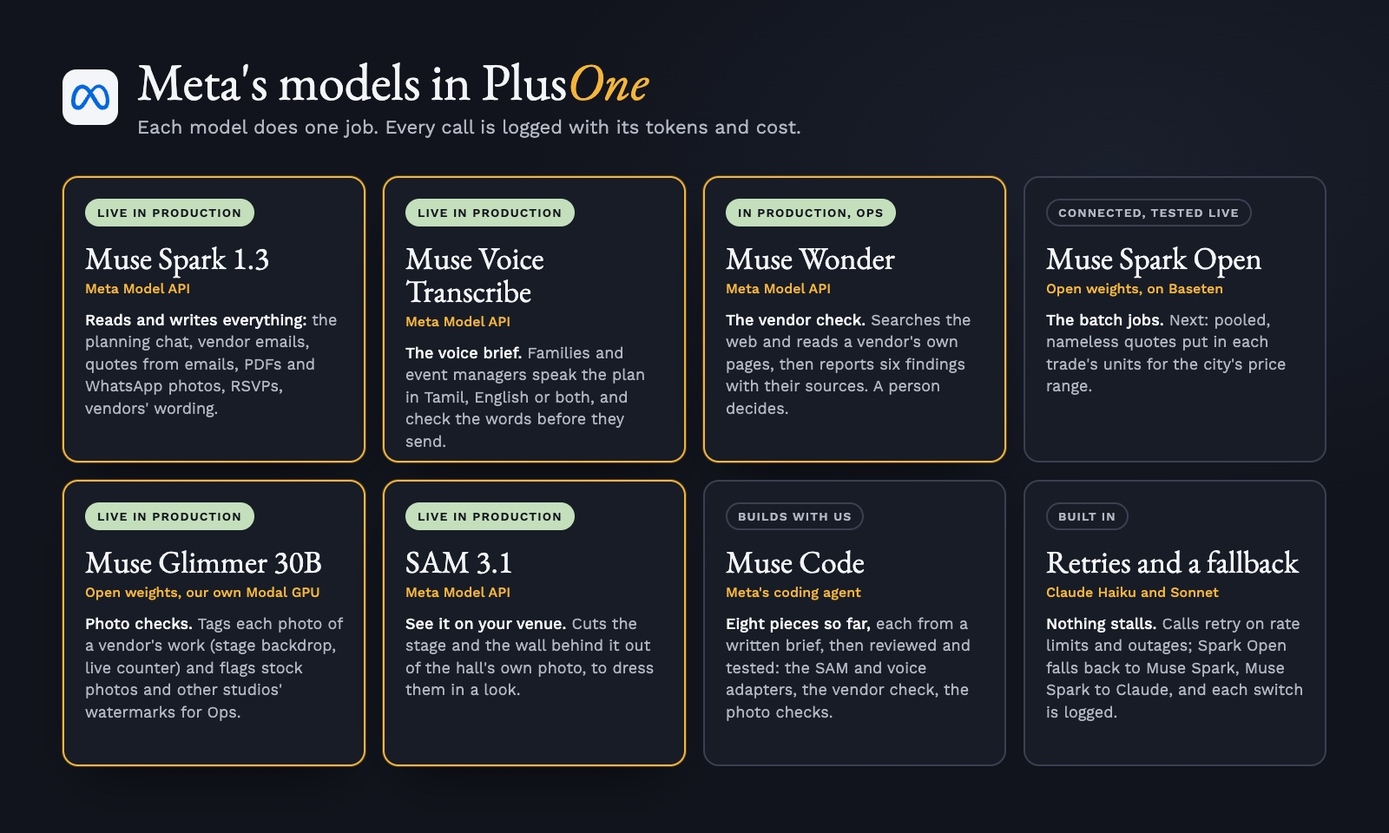
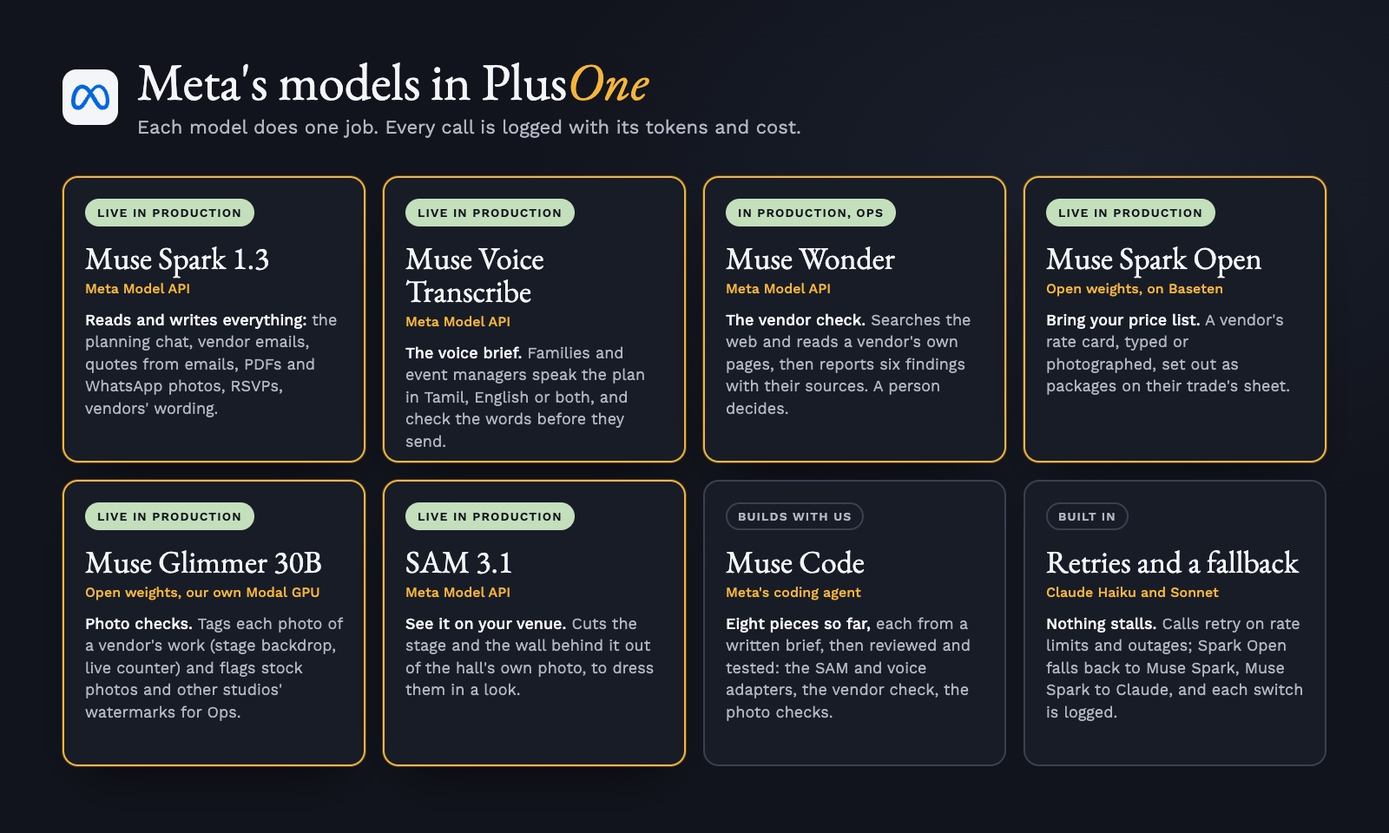
README, devlog and the models card: Muse Spark Open reads vendors' price lists; WhatsApp and Call; 657 tests

Changed region(s): [[0.75, 0.375, 0.9375, 0.4688], [0.75, 0.1875, 0.9375, 0.2812], [0.7188, 0.5312, 0.9688, 0.5625]]

diff --git a/assets/src/meta-models.html b/assets/src/meta-models.html
@@ -54,11 +54,11 @@
       <div class="host">Meta Model API</div>
       <div class="what"><b>The vendor check.</b> Searches the web and reads a vendor's own pages, then reports six findings with their sources. A person decides.</div>
     </div>
-    <div class="m">
-      <span class="tag">Connected, tested live</span>
+    <div class="m live">
+      <span class="tag">Live in production</span>
       <div class="name">Muse Spark Open</div>
       <div class="host">Open weights, on Baseten</div>
-      <div class="what"><b>The batch jobs.</b> Next: pooled, nameless quotes put in each trade's units for the city's price range.</div>
+      <div class="what"><b>Bring your price list.</b> A vendor's rate card, typed or photographed, set out as packages on their trade's sheet.</div>
     </div>
     <div class="m live">
       <span class="tag">Live in production</span>

diff --git a/README.md b/README.md
@@ -15,7 +15,7 @@
 ![Event](https://img.shields.io/badge/event-Meta_Global_AI_Developer_Hackathon-f4b53a?style=flat-square&labelColor=11141c)
 ![Track](https://img.shields.io/badge/track-Startup-f4b53a?style=flat-square&labelColor=11141c)
 ![Status](https://img.shields.io/badge/status-working_end_to_end-c4dfbc?style=flat-square&labelColor=11141c)
-![Tests](https://img.shields.io/badge/tests-643_passing-c4dfbc?style=flat-square&labelColor=11141c)
+![Tests](https://img.shields.io/badge/tests-657_passing-c4dfbc?style=flat-square&labelColor=11141c)
 [![License](https://img.shields.io/badge/license-FSL--1.1--ALv2-b3b7c3?style=flat-square&labelColor=11141c)](LICENSE.md)
 
 <table align="center">
@@ -82,7 +82,7 @@ PlusOne began as a wedding planner and placed second at Convex's All Gas hackath
 
 | The theme asks | PlusOne's answer |
 |---|---|
-| **Bring Meta's models into your domain** | Event planning, on Meta's models end to end. Muse Spark reads replies, quotes and PDFs that mix Tamil and English into the same lines, and Muse Voice Transcribe hears a plan spoken in Tamil, English or both, both live today. Muse Wonder checks a vendor's evidence in Ops, and Muse Spark Open, open weights on Baseten, is connected for the batch jobs. Muse Glimmer, open weights on our own Modal GPU, checks and tags photos of vendors' work, live in production. SAM 3.1 cuts the stage out of the customer's own hall photo to dress it in a look, live |
+| **Bring Meta's models into your domain** | Event planning, on Meta's models end to end. Muse Spark reads replies, quotes and PDFs that mix Tamil and English into the same lines, and Muse Voice Transcribe hears a plan spoken in Tamil, English or both, both live today. Muse Wonder checks a vendor's evidence in Ops, and Muse Spark Open, open weights on Baseten, turns a vendor's own price list, typed or photographed, into packages on the standard sheet. Muse Glimmer, open weights on our own Modal GPU, checks and tags photos of vendors' work, live in production. SAM 3.1 cuts the stage out of the customer's own hall photo to dress it in a look, live |
 | **A problem you know firsthand** | The founders know it from planning events in their own families: vendors spread across calls, chats and spreadsheets, quotes that can't be compared, charges that turn up later. PlusOne began as a planner for exactly that |
 | **Free up time and mental space** | PlusOne does the legwork: it searches, writes from the event's own inbox, chases vendors up to three times, reads every reply and PDF into one unit and says what each quote leaves out. The host only decides |
 | **Make something possible that wasn't before** | A family planning a birthday gets what only a wedding with a planner got before: offers in the same lines, missing charges flagged and the market range. An event manager gets the same for every client's event, without chasing each vendor by phone. A vendor with no website gets found and answers briefs. A plan can be spoken in Tamil, and the decor seen on the real hall before anyone pays |
@@ -112,7 +112,7 @@ Before the hackathon, PlusOne already planned an event from a conversation, foun
 | Criterion (weight) | What PlusOne shows | Where to look |
 |---|---|---|
 | **Impact (30%)**: real-world potential, who benefits, could people use it, fit to the problem statement | **The pain:** planning is spread across calls, chats, email and spreadsheets, and no two quotes are written alike, so charges turn up late. **Who benefits:** families, teams and event managers planning events of any size, and vendors with no website or listing, who can't be found. **What PlusOne does:** one all-in-one app for the whole plan, and every quote and offer on the same lines, with missing charges flagged and the market range. **Real-world potential:** every event needs vendors and quotes, at every budget; the aim is to standardise how they are planned and bought, with four revenue streams. **Could people use it:** it is live at plusoneevents.site, free until launch, with a guest demo that needs no sign-up. **Fit:** Build for Your World, answered row by row above | [The business](#the-business), [How it works](#how-it-works) |
-| **Use of Meta AI tooling (25%)**: creative, beyond a basic integration, surprising capabilities | Each model does the job it is best at, chained into one flow. Today, Muse Spark reads every reply, PDF, quote and WhatsApp photo of a price list, in Tamil and English, into the same lines, and fixed rules then flag what each leaves out; Muse Voice Transcribe hears a spoken brief and Muse Spark turns it into the plan. Muse Wonder gathers evidence about a vendor for Ops, with its sources. Muse Spark Open, open weights on Baseten, is connected and tested live, and takes Muse Spark's place for batch jobs. Muse Glimmer, open weights on our own Modal GPU, checks and tags photos of vendors' work. Muse Spark boxes the stage in the hall's own photo and SAM 3.1 cuts it out to dress it in a look. Muse Code builds pieces of the app. Every call shows in Under the hood with its model, time and cost. Each piece's status is in the table above | [Meta's models in PlusOne](#metas-models-in-plusone) |
+| **Use of Meta AI tooling (25%)**: creative, beyond a basic integration, surprising capabilities | Each model does the job it is best at, chained into one flow. Today, Muse Spark reads every reply, PDF, quote and WhatsApp photo of a price list, in Tamil and English, into the same lines, and fixed rules then flag what each leaves out; Muse Voice Transcribe hears a spoken brief and Muse Spark turns it into the plan. Muse Wonder gathers evidence about a vendor for Ops, with its sources. Muse Spark Open, open weights on Baseten, reads a vendor's price list, typed or photographed, into packages on their trade's sheet. Muse Glimmer, open weights on our own Modal GPU, checks and tags photos of vendors' work. Muse Spark boxes the stage in the hall's own photo and SAM 3.1 cuts it out to dress it in a look. Muse Code builds pieces of the app. Every call shows in Under the hood with its model, time and cost. Each piece's status is in the table above | [Meta's models in PlusOne](#metas-models-in-plusone) |
 | **Technical depth and execution (20%)**: sound, refined engineering, real craft | The model reads; fixed, tested rules decide what to ask next, when a plan is ready, when a quote may move the budget and what a quote leaves out. One wrapper sends structured output checked against Zod schemas, retries that honour `Retry-After`, falls back with a log and writes a cost row per call. Durable workflows, scheduling, webhooks and rate limits run on Convex, with 588 tests | [The tech, part by part](#the-tech-part-by-part), [Real runs](#real-runs) |
 | **Demo (25%)**: working, impressive, holds up live, a video worth watching | A live guest demo with no sign-up and three sample events. It holds up live with retries, a fallback, rate limits and made-up vendors, so nothing is really sent. A three-minute video of the new work | [The demo](https://app.plusoneevents.site/demo) |
 
@@ -133,7 +133,7 @@ Every fee is disclosed. Fair pricing here means informed and comparable: PlusOne
 
 ## Meta's models in PlusOne
 
-<img src="assets/meta-models.jpg" width="100%" alt="Meta's models in PlusOne: Muse Spark 1.3 and Muse Voice Transcribe live in production; Muse Wonder in production in Ops; Muse Spark Open connected on Baseten and tested live; Muse Glimmer 30B checking vendors' photos on our own Modal GPU, live in production; SAM 3.1 dressing the stage in the hall's own photo, live in production; Muse Code building pieces of the app; retries and a fallback built in">
+<img src="assets/meta-models.jpg" width="100%" alt="Meta's models in PlusOne: Muse Spark 1.3 and Muse Voice Transcribe live in production; Muse Wonder in production in Ops; Muse Spark Open on Baseten reading vendors' price lists, live; Muse Glimmer 30B checking vendors' photos on our own Modal GPU, live in production; SAM 3.1 dressing the stage in the hall's own photo, live in production; Muse Code building pieces of the app; retries and a fallback built in">
 
 | Model | Where it works in PlusOne | Status |
 |---|---|---|
@@ -141,7 +141,7 @@ Every fee is disclosed. Fair pricing here means informed and comparable: PlusOne
 | **Muse Voice Transcribe** | The voice brief: a family or an event manager speaks the plan in Tamil, English or both, in the planning chat or the Today box; next, a vendor's phone call, with who said what told apart, read into the standard sheet | Live in production since 28 Oct 2026 |
 | **SAM 3.1** | Cuts the stage and the wall behind it out of the hall's own photo, from boxes Muse Spark finds or a tap, so the page can dress them in a look; masks cached, so a photo and a tap are paid for once | Live in production, 29 Oct (`convex/lib/sam.ts`, `convex/venueView.ts`: two parts in one call; each mask comes back cropped to its box and resized, so its outline is placed back in the box) |
 | **Muse Wonder** | The verification agent in PlusOne Ops: checks a vendor's profile against their own site and public pages, with links; a person decides | Built into Ops, 28 Oct (`convex/lib/wonder.ts`, `convex/marketplace/checks.ts`): web search and page reads, six findings, a source kept only if the run saw it; in production since 28 Oct; its first live run is next |
-| **Muse Spark Open** (open weights, on Baseten) | Batch jobs over quotes and listings: first, turning pooled quotes into the standard sheet's units for the city's price range; then seeding the vendor directory from public listings | Connected and tested live, 29 Oct (`convex/lib/sparkOpen.ts`): a photographer's shorthand quote read into the right numbers in 2.8 s; a call Baseten can't answer goes to Muse Spark. Its first feature is next |
+| **Muse Spark Open** (open weights, on Baseten) | **Bring your price list** on Partner: a vendor pastes or photographs the price list they already send customers, and Spark Open drafts each package on their trade's standard sheet (how it's priced, the price, what's included, GST) for them to check and save | Live in production, 29 Oct (`convex/marketplace/priceList.ts`, `convex/lib/priceList.ts`): a photo of a printed rate card read into three packages, prices, dish counts, sweets, serving staff and "GST extra" all right, in 8.4 s; fixed rules keep only the sheet's ways of charging and, for typed text, only prices the list has |
 | **Muse Glimmer 30B** (open weights, on our own Modal endpoint) | Checks each photo a Partner vendor adds of their work: real event work or stock, another business's name or watermark, faces, anything unsafe, what it shows, and up to five tags from a fixed list for the trade (stage backdrop, entrance arch, banana-leaf service, live counter); flags go to Ops, where a person decides | Live in production, 29 Oct (`convex/lib/glimmer.ts`, `convex/marketplace/photos.ts`): one H200 that scales to zero; on the live vendors' demo a caterer's photo was checked in about 6 s warm and tagged plated service and serving staff, after a cold start of about 3.6 minutes; a check it can't finish goes to Muse Spark |
 | **Muse Code** (Meta's coding agent) | Builds bounded pieces of PlusOne from a written brief, which are then reviewed and tested before they are committed; eight sessions so far: the SAM 3.1 adapter, the voice brief (its audio encoder, the Voice Transcribe adapter and the brief in the app), the Muse Wonder vendor check and its place in Ops, the tidy for vendors' wording, and the Glimmer photo checks. Every session is logged in [`devlog.md`](devlog.md#muse-code) | In use since 27 Oct 2026 |
 
@@ -240,7 +240,7 @@ PlusOne Ops, at `/ops`, is the PlusOne team's side. A queue holds vendors and li
 | Muse Spark reading the demo's quotes | The three caterers' replies read on `muse-spark-1.3` in production, each right first time: Annam ₹66,150 in three lines (150 plates at ₹380, ₹6,000 service, ₹3,150 GST), priced for 150; Saapadu ₹62,000 all in for 120 with the ₹480 extra plate kept apart; Kaveri ₹54,000 plus ₹2,500 for vessels and staff, GST extra. 7.1–14.4 s each, 4,329 tokens in and 6,570 out, $0.033 in all, no fallback | 28 Oct 2026 | `npx convex run claude:readDemoQuotes`; the rows are Under the hood's recorded run |
 | Muse Voice Transcribe in production | A note spoken into the live app's Today box came back as text in the box, first try; the recording was deleted after reading | 28 Oct 2026 | By hand on app.plusoneevents.site, in the founder's own voice |
 | Muse Spark's reasoning | At `reasoning_effort: low` a one-line reply used 194 reasoning tokens; capped at 400 output tokens, reasoning took 398 and the answer came back empty. Every call site allows 16,000 | 27 Oct 2026 | Two direct Chat Completions calls |
-| Tests | 643 passed in 61 files, including the quote comparison, the standard sheet and its missing-charge rules (pinned on the guest demo's quotes), the marketplace's listings, briefs, offers and price ranges, the Meta provider switch and its fallback, Muse Spark Open on Baseten and its move to Muse Spark, the photo checks on Muse Glimmer (its retries through a cold start, the tag list, the limits and the Ops decisions), the venue view (boxes to SAM's objects, the mask cache, taps, limits and where the backdrop is drawn), the cost record, the voice brief's limits and clean-up, the vendor check's tool loop, source rules, limits and cost on failure, the planning conversation's rules, the board's geometry, the co-pilot's route and a contrast check of every text colour in the light and dark themes | 29 Oct 2026 | `npm test` |
+| Tests | 657 passed in 64 files, including the quote comparison, the standard sheet and its missing-charge rules (pinned on the guest demo's quotes), the marketplace's listings, briefs, offers and price ranges, the Meta provider switch and its fallback, Muse Spark Open on Baseten and its move to Muse Spark, the photo checks on Muse Glimmer (its retries through a cold start, the tag list, the limits and the Ops decisions), the venue view (boxes to SAM's objects, the mask cache, taps, limits and where the backdrop is drawn), the price list (only the sheet's units and the list's own prices kept, a photo deleted once read), the photos customers see, WhatsApp and call links, the cost record, the voice brief's limits and clean-up, the vendor check's tool loop, source rules, limits and cost on failure, the planning conversation's rules, the board's geometry, the co-pilot's route and a contrast check of every text colour in the light and dark themes | 29 Oct 2026 | `npm test` |
 | Typecheck, app and backend | Clean | 28 Oct 2026 | `npm run typecheck` |
 | The three sample events | Each opened from `/demo` for a new visitor (the birthday, `?sample=housewarming`, `?sample=office`); eleven screens captured with 0 page errors; at phone width (390 px) the page is exactly as wide as the screen, with no sideways scroll | 25 Oct 2026 | Headless Chrome (playwright-core) against the dev server and the dev backend; these are the screenshots in this README |
 | Vendor search terms, old against new | Vendors' own websites among results kept: 9 of 27 with the new short terms against 5 of 26 with the old single sentence, for about half the credits | 20 Oct 2026 | A one-off before/after run of three briefs against Firecrawl |
@@ -262,6 +262,7 @@ PlusOne Ops, at `/ops`, is the PlusOne team's side. A queue holds vendors and li
 | Open weights on Baseten | Muse Spark Open (`meta-models/muse-spark-open-1026`) through Baseten's Chat Completions, paid from Baseten's credit | `convex/lib/sparkOpen.ts`; the same request and reply code as Meta's API (`chatBody` and `chatComplete` in `convex/lib/meta.ts`), so structured output and retries match; a call asks for it with `provider: "spark_open"` and moves to Muse Spark when Baseten can't answer; `convex/openWeights.ts` is a hand-run live check |
 | Photos of a vendor's work | Muse Glimmer 30B on our own Modal Dedicated Endpoint (one H200, SGLang, OpenAI-compatible), Muse Spark as fallback | Partner shrinks a photo in the browser and uploads it; `convex/marketplace/photos.ts` checks it in the background; `convex/lib/glimmer.ts` sends it with a proxy token, retries while the GPU starts and ends within seven minutes; `convex/lib/photoTags.ts` holds the tags per trade and the plain-words flags; Ops approves or removes |
 | See it on your venue | Muse Spark (boxes the stage and the wall behind it), SAM 3.1 (cuts both out in one call), canvas drawing | `convex/venueView.ts` runs Muse Spark then SAM and caches the masks by image and prompt; `convex/lib/venue.ts` turns boxes and taps into SAM's objects; `src/lib/venueLooks.ts` draws the drape, garlands and stage skirt only inside the masks (Muse Image isn't available in India, so it is our own drawing, labelled as a sketch) |
+| Bring your price list | Muse Spark Open on Baseten (images and text in), with fixed rules | `convex/marketplace/priceList.ts` sends the list, or its photo, with the trade's ways of charging and quantities by key; `convex/lib/priceList.ts` keeps only those keys and, for typed text, only prices found in it (`numbersIn`, a lakh figure read as lakh); the photo is deleted once read; drafts fill the usual form and nothing saves until the vendor does |
 | Cost record | Own code | `convex/modelCalls.ts` writes one row per model call; prices per million tokens for Muse Spark, Muse Wonder, Muse Spark Open on Baseten and the Claude fallback, SAM 3.1 per image and Glimmer's GPU per second, in `convex/lib/modelCost.ts`. The row is written before the answer is checked, since an answer that fails validation was still paid for |
 | Vendor search | Firecrawl | Short search terms in `convex/lib/searchTerms.ts`; research, ranking and contact and pricing pages in `convex/research.ts` and `convex/firecrawl.ts`, with what may be read decided in `convex/lib/scrapePolicy.ts` and a cache in `convex/webCache.ts` |
 | The event's inbox | AgentMail | One inbox per event, named after the hosts' first names on the deployment's domain, in `convex/agentmail.ts` and `convex/lib/inboxName.ts`; sending, replies and follow-ups in `convex/outreach.ts`, `convex/inbound.ts` and `convex/followups.ts`; the do-not-contact list in `convex/doNotContact.ts`. Each deployment keeps its inboxes in its own AgentMail pod, with a webhook that hears only that pod |

diff --git a/devlog.md b/devlog.md
@@ -13,14 +13,14 @@
 - **Hosting:** Cloudflare Pages for the app; Convex (Ireland) for the backend
 - **Auth:** Clerk; Convex Auth guest sessions for the sample events
 - **External services:** AgentMail (event inboxes), Firecrawl (vendor search), Resend (app emails), PostHog (usage), Meta Model API (Muse Spark, Muse Voice Transcribe, Muse Wonder), Baseten (Muse Spark Open), Modal (our own Muse Glimmer endpoint)
-- **AI models (product):** muse-spark-1.3 (Meta Model API, Chat Completions with JSON Schema output) for every reading and writing step, live in production since 27 Oct; claude-haiku-5-5 and claude-sonnet-5-5 as the fallback when Meta can't answer; muse-voice-transcribe-1.0 for speaking the plan instead of typing it, in the app since 28 Oct (no fallback); muse-wonder-1.0 for the vendor check in Ops, in production since 28 Oct; the open-weights meta-models/muse-spark-open-1026 on Baseten, connected and tested live 29 Oct, falling back to Muse Spark. the open-weights Muse Glimmer 30B on our own Modal endpoint (one H200) for checking and tagging vendors' photos, live in production 29 Oct, falling back to Muse Spark. SAM 3.1 (`sam-3.1`) to cut the stage out of a hall photo for the venue view, live in production 29 Oct.
+- **AI models (product):** muse-spark-1.3 (Meta Model API, Chat Completions with JSON Schema output) for every reading and writing step, live in production since 27 Oct; claude-haiku-5-5 and claude-sonnet-5-5 as the fallback when Meta can't answer; muse-voice-transcribe-1.0 for speaking the plan instead of typing it, in the app since 28 Oct (no fallback); muse-wonder-1.0 for the vendor check in Ops, in production since 28 Oct; the open-weights meta-models/muse-spark-open-1026 on Baseten, reading vendors' price lists into packages on Partner since 29 Oct, falling back to Muse Spark. the open-weights Muse Glimmer 30B on our own Modal endpoint (one H200) for checking and tagging vendors' photos, live in production 29 Oct, falling back to Muse Spark. SAM 3.1 (`sam-3.1`) to cut the stage out of a hall photo for the venue view, live in production 29 Oct.
 - **AI models (build):** Claude Code with claude-opus-5-5 (and its subagents); Muse Code (Everyday plan, from 27 Oct), every session logged under Muse Code below
 - **Track:** Startup ("open to technical founders building a product"): the rules let a startup build on its existing product, provided what is new during the event is clearly identified, which this log and the cutoff above do
-- **Meta models used:** Muse Spark 1.3 (live); Muse Voice Transcribe (live in production 28 Oct: speak the plan or a change in Tamil, English or both); SAM 3.1 (adapter built 27 Oct; the venue view live in production 29 Oct); Muse Wonder (the vendor check in Ops, built and wired in 28 Oct; first live run to make); Muse Spark Open (open weights on Baseten, $100 of Baseten credit, connected and tested live 29 Oct; its first feature next); Muse Glimmer 30B (open weights on our own Modal Dedicated Endpoint, one H200, $100 of Modal credit; photo checks live in production 29 Oct); Muse Code for building
+- **Meta models used:** Muse Spark 1.3 (live); Muse Voice Transcribe (live in production 28 Oct: speak the plan or a change in Tamil, English or both); SAM 3.1 (adapter built 27 Oct; the venue view live in production 29 Oct); Muse Wonder (the vendor check in Ops, built and wired in 28 Oct; first live run to make); Muse Spark Open (open weights on Baseten, $100 of Baseten credit; live 29 Oct, reading vendors' price lists into packages); Muse Glimmer 30B (open weights on our own Modal Dedicated Endpoint, one H200, $100 of Modal credit; photo checks live in production 29 Oct); Muse Code for building
 - **Credits spent:** about $0.04 of $150 in our own measured runs: $0.0053 for the first production call (27 Oct) and $0.033 for the recorded demo run (28 Oct), plus one voice note on production (under $0.01; a note is capped at 2 minutes). Correction: this field said "none on 28 Oct" before that run. Every call is recorded in `modelCalls`, to be reconciled with Meta Billing. Partner credits, apart from the Meta key: about $0.003 of Baseten's $100 (one Spark Open check, 29 Oct); about $0.30 of Modal's $100 for Glimmer (one cold start of about 217 s of H200 and one 5.5 s check, 29 Oct)
 - **Product started:** 2026-09-15, as an entry to Convex's All Gas hackathon (placed second); built on since in private
 - **Pre-hackathon cutoff:** kickoff, 26 Oct 2026 at 9:30 PM IST. The repository's first commit, tagged `pre-hackathon` (`06fa77b`, 26 Oct 14:58 IST), is the product as it stood before the event; 11 commits that afternoon, before kickoff (`ab4d141`..`d4e1712`, 17:35–17:45 IST), are privacy and trust groundwork and are not shown as hackathon work. Everything from `608627f` (27 Oct) on is new during the hackathon
-- **Last updated:** 2026-10-29T10:55:00+05:30
+- **Last updated:** 2026-10-29T12:10:00+05:30
 
 ## Evidence
 
@@ -29,7 +29,7 @@
 | Muse Spark runs the agent | Every call site goes through `convex/lib/models.ts`; production runs `muse-spark-1.3` since 27 Oct; a production RSVP read on 27 Oct returned a correct structured answer (field notes) | partial: end-to-end runs on real events still to record |
 | SAM 3.1 turns inspiration photos into decorator briefs | none yet | missing (cut unless time is left) |
 | Decor shown on the real venue | `convex/venueView.ts`, `src/lib/venueLooks.ts` (`7baa6c0`, `e5b62e1`): Muse Spark boxes the stage and wall, SAM 3.1 cuts them out, four looks drawn on the masks; live on the guest demo, 9.1 s first time, 1.1 s cached (field notes, 29 Oct); screenshot `assets/screens/venue.jpg` | done |
-| Open-weights models | Muse Spark Open on Baseten in the model wrapper (`convex/lib/sparkOpen.ts`, `6366fbe`): a live check read a photographer's shorthand quote into the right six numbers in 2.8 s for about $0.003 (field notes, 29 Oct); Muse Glimmer 30B photo checks (`a8112ad`, `35055fc`): one of our own decorator photos read in 5.5 s warm, tagged fresh flowers and stage backdrop, faces noted, but it called our generated image real work (field notes, 29 Oct) | partial: Spark Open connected, its first feature next; Glimmer photo checks done, live in production 29 Oct |
+| Open-weights models | Muse Spark Open on Baseten in the model wrapper (`convex/lib/sparkOpen.ts`, `6366fbe`): a live check read a photographer's shorthand quote into the right six numbers in 2.8 s for about $0.003 (field notes, 29 Oct); Muse Glimmer 30B photo checks (`a8112ad`, `35055fc`): one of our own decorator photos read in 5.5 s warm, tagged fresh flowers and stage backdrop, faces noted, but it called our generated image real work (field notes, 29 Oct) | done: Spark Open reads vendors' price lists (live 29 Oct: a rate-card photo into three packages, all right, 8.4 s); Glimmer photo checks live 29 Oct |
 | Muse Wonder checks a vendor before Ops verifies | `convex/lib/wonder.ts` (`3fd6b59`): web search and page reads in a tool loop, six checks with sources this run actually saw; 16 offline tests | partial: live in Ops on production (`807f727`, "Check this vendor", the findings beside the reviewer's checklist); no live run yet |
 | Credits spent per run | `modelCalls` records feature, model, tokens and list-price cost for every call; first production call $0.0053 (1,214 in, 880 out) | partial: per-feature totals still to report |
 | Screenshots of the Meta features | none yet | missing |
@@ -70,7 +70,10 @@ Muse Code is Meta's coding agent. We subscribed to the Everyday plan on 27 Oct 2
 - **Critic review (morning):** 7.9 / 10, up from 7.1 (`docs/reviews/2026-10-29.md` in the team's notes). A fresh clone built and passed; no secrets in 169 commits or the bundle; no console errors or sideways scroll on the live demo after one fix. Fixed the same morning: **Compare scrolled sideways on a phone** (screen-reader text in "What's in it" escaped its table's scroll box; `37032e0`); copy that said "families and teams" without event managers, "event planners", and "fair rate"/"pushing for a fair price"; the README gained PlusOne Ops in the layer table, what people use today (WedMeGood's hidden-costs checklist, quoted from its page) and how it reaches people (`bd84679`).
 - **Past work beside offers** (`ce72921`): a Partner vendor's checked photos show in a "Past work" row under their offer in Compare, with their tags; only photos checked clean or approved by the team, on a verified listing. The four sample vendors got two photos each (made with Pollinations, labelled as samples); **Glimmer flagged all eight as AI-generated**, correctly ("The image appears AI-generated/rendered rather than a genuine event photo"), so they wait for a founder to approve them in Ops.
 - **Under the hood shows every Meta model** (`7d0dfd5`): four recorded real runs in the demo, each with its date: Muse Spark on the catering quotes, Muse Spark and SAM 3.1 on the sample hall (production rows: 3,226 in / 479 out, 4.3 s, $0.006; SAM 4.0 s, $0.0025), Muse Glimmer on a caterer's photo (5.6 s), Muse Spark Open on a shorthand quote (2.8 s). Checked live at 390 and 1440 px.
-- **Tests:** 643 passed in 61 files; typecheck clean.
+- **WhatsApp and Call for every vendor** (`d76bc34`): in Compare and on the Vendors page, WhatsApp opens with the first message written for the event, and Call dials; sample vendors have no numbers, so their buttons say what would happen. Direction set by Paddy: India runs on WhatsApp and calls, not email.
+- **Judges pointed to Under the hood** (`0866430`): on sample events only, a line in the demo bar, a dot on the button until it is opened, and "See the Meta models behind this" on Compare and a dressed venue. Checked live: each opens the panel.
+- **Bring your price list, on Muse Spark Open** (`6dd4d9d`): a vendor pastes or photographs the price list they already send customers, and Spark Open on Baseten drafts each package on their trade's sheet; "Use this" fills the usual form. **Measured** on production (Playwright, 390 px): a typed list became two packages in 4.9 s; a photo of a printed rate card became three, every price, dish count, sweet, the 6 serving staff and "GST extra" right, in 8.4 s. Chosen over pooling quotes into the range, which would have repeated Muse Spark's reading out of sight.
+- **Tests:** 657 passed in 64 files; typecheck clean.
 
 ### 2026-10-28 - 80a23e5..de4af23
 - **The centrepiece, live:** one brief becomes comparable offers. **The standard sheet** (`convex/lib/standardSheet.ts`) sets, for each kind of vendor, the unit a quote should be priced in and every charge it should state (GST, service staff, transport, crockery and water for a caterer; electricity, AC, cleaning and overtime for a hall; and so on). Muse Spark reads each emailed quote into those lines; fixed, tested rules decide what each leaves out and say what the others charge for it ("No water line, and one other charges ₹600"). **Compare** now shows every quote and offer line by line, with each price placed in the **Chennai range** for the same unit (Value, Standard, Premium, Luxury).

diff --git a/src/partner/README.md b/src/partner/README.md
@@ -54,6 +54,7 @@ The tables are `vendorProfiles`, `vendorOfferings`, `vendorClaims`, `vettingRevi
 |---|---|---|
 | The verification agent in Ops: checks a vendor against their own site and public pages and lists the evidence with links, then a person decides | Muse Wonder | Built into Ops, 28 Oct (`convex/marketplace/checks.ts`); first live run next |
 | A vendor's phone call with a customer, transcribed with who said what told apart, read into the standard sheet | Muse Voice Transcribe, Muse Spark | Building, 29–30 Oct |
+| Bring your price list: a vendor pastes or photographs the list they already send customers, and each package is drafted on their trade's sheet for them to check and save | Muse Spark Open (open weights, on Baseten) | Live, 29 Oct (`convex/marketplace/priceList.ts`) |
 | Photos of a vendor's work checked (real work or stock, another business's watermark, faces) and tagged for their trade; flags go to Ops, and checked photos sit beside the vendor's offers in Compare | Muse Glimmer 30B (open weights, our own Modal endpoint) | Live, 29 Oct (`convex/marketplace/photos.ts`) |
 
 ## Run and test
